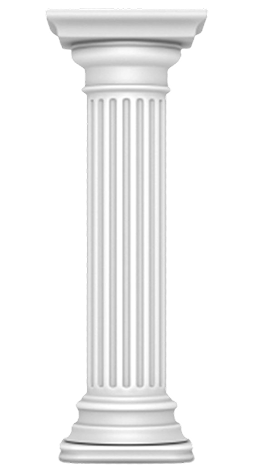
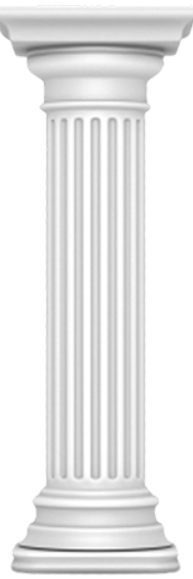
update

diff --git a/src/components/aboutus/Brands.jsx b/src/components/aboutus/Brands.jsx
@@ -47,133 +47,81 @@ const Brands = () => {
       <div className="">
         <div className="max-w-7xl mx-auto">
           {/* Main Content Row */}
-          <div className="flex flex-col lg:flex-row items-start lg:items-center gap-8 lg:gap-12">
+          <div className="flex flex-wrap ">
             {/* Left Side - Main Pillar and Text */}
-            <div className="flex-1 lg:max-w-md">
-              {/* Dynamic Header */}
-              <div className="mb-8">
-                <h3 className="text-xs md:text-sm font-medium text-gray-600 tracking-wider mb-2">
+
+            {/* Dynamic Header */}
+            <div className="mb-8 flex items-center basis-[100%] justify-between flex-wrap">
+              <div className="basis-[10%] text-center">
+                <h3 className="text-sm font-medium text-primaryblue tracking-[1.5px] mb-2">
                   {sections[activeSection].title}
                 </h3>
-                <h2 className="text-xs md:text-sm font-medium text-gray-600 tracking-wider">
+                <h2 className="text-sm font-medium text-primaryblue tracking-[1.5px]">
                   {sections[activeSection].subtitle}
                 </h2>
               </div>
+              <div className="basis-[20%] bg-black h-[0.5px]"></div>
+              <p className="basis-[60%] font-lato text-[14px] font-[400] tracking-[1px]  leading-[27px]">
+                {sections[activeSection].description}
+              </p>
+            </div>
 
+            <div className="flex basis-[100%] flex-wrap">
               {/* Large Pillar */}
-              <div className="mb-8 lg:mb-12">
-                <img src="/assets/pillar.png" alt="pillar" />
+              <div className="basis-[20%] h-[360px]">
+                <img
+                  src="/assets/pillar.png"
+                  className="h-[100%]"
+                  alt="pillar"
+                />
               </div>
-            </div>
-
-            {/* Navigation Arrows */}
-            <div className="hidden lg:flex items-center gap-4 self-center">
-              <button
-                onClick={prevSection}
-                className="p-2 hover:bg-gray-200 rounded-full transition-colors"
-              >
-                <svg
-                  width="24"
-                  height="24"
-                  viewBox="0 0 24 24"
-                  fill="none"
-                  xmlns="http://www.w3.org/2000/svg"
+              {/* Navigation Arrows */}
+              <div className=" basis-[20%] flex items-center gap-4 self-center">
+                <button
+                  onClick={prevSection}
+                  className="p-2 hover:bg-gray-200 rounded-full transition-colors"
                 >
-                  <path
-                    d="M15 18L9 12L15 6"
-                    stroke="#6B7280"
-                    strokeWidth="2"
-                    strokeLinecap="round"
-                    strokeLinejoin="round"
+                  <img
+                    src="./assets/right-arrow.png"
+                    alt="right"
+                    className="h-[17px] lg:h-[20px] rotate-[180deg] object-cover"
                   />
-                </svg>
-              </button>
-              <button
-                onClick={nextSection}
-                className="p-2 hover:bg-gray-200 rounded-full transition-colors"
-              >
-                <svg
-                  width="24"
-                  height="24"
-                  viewBox="0 0 24 24"
-                  fill="none"
-                  xmlns="http://www.w3.org/2000/svg"
+                </button>
+                <button
+                  onClick={nextSection}
+                  className="p-2 hover:bg-gray-200 rounded-full transition-colors"
                 >
-                  <path
-                    d="M9 18L15 12L9 6"
-                    stroke="#6B7280"
-                    strokeWidth="2"
-                    strokeLinecap="round"
-                    strokeLinejoin="round"
+                  <img
+                    src="./assets/right-arrow.png"
+                    alt="right"
+                    className="h-[17px] lg:h-[20px] object-cover"
                   />
-                </svg>
-              </button>
-            </div>
-
-            {/* Right Side - Description and Three Pillars */}
-            <div className="flex-1 lg:max-w-2xl">
-              {/* Description Text */}
-              <div className="mb-12 lg:mb-16">
-                <p className="text-gray-700 text-sm md:text-base leading-relaxed">
-                  {sections[activeSection].description}
-                </p>
+                </button>
               </div>
-
               {/* Three Pillars with Labels */}
-              <div className="grid grid-cols-1 md:grid-cols-3 gap-8 md:gap-6">
+              <div className="grid basis-[60%]  grid-cols-1 md:grid-cols-3 gap-8 md:gap-6">
                 {sections.slice(1).map((section, index) => (
-                  <div key={index} className="text-center">
-                    <div className="mb-4">
-                      <img src="/assets/pillar.png" alt="pillar" />
-                    </div>
-                    <h4 className="text-xs font-medium text-gray-600 tracking-wider mb-1">
+                  <div
+                    key={index}
+                    className="flex flex-col items-center justify-end"
+                  >
+                    <h4 className="text-[15px]  font-medium text-[#263A7F80] tracking-[1.5px] mb-1">
                       {section.title}
                     </h4>
-                    <h4 className="text-xs font-medium text-gray-600 tracking-wider">
+                    <h4 className="text-[15px]  font-medium text-[#263A7F80] tracking-[1.5px]">
                       {section.subtitle}
-                    </h4>
+                    </h4>{" "}
+                    <div className="pt-7 h-[150px]">
+                      <img
+                        src="/assets/pillar.png"
+                        className="h-[100%]"
+                        alt="pillar"
+                      />
+                    </div>
                   </div>
                 ))}
               </div>
             </div>
-          </div>
-
-          {/* Mobile Navigation Arrows */}
-          <div className="flex lg:hidden justify-center mt-8 gap-4">
-            <button className="p-2 hover:bg-gray-200 rounded-full transition-colors">
-              <svg
-                width="20"
-                height="20"
-                viewBox="0 0 24 24"
-                fill="none"
-                xmlns="http://www.w3.org/2000/svg"
-              >
-                <path
-                  d="M15 18L9 12L15 6"
-                  stroke="#6B7280"
-                  strokeWidth="2"
-                  strokeLinecap="round"
-                  strokeLinejoin="round"
-                />
-              </svg>
-            </button>
-            <button className="p-2 hover:bg-gray-200 rounded-full transition-colors">
-              <svg
-                width="20"
-                height="20"
-                viewBox="0 0 24 24"
-                fill="none"
-                xmlns="http://www.w3.org/2000/svg"
-              >
-                <path
-                  d="M9 18L15 12L9 6"
-                  stroke="#6B7280"
-                  strokeWidth="2"
-                  strokeLinecap="round"
-                  strokeLinejoin="round"
-                />
-              </svg>
-            </button>
           </div>
         </div>
       </div>
